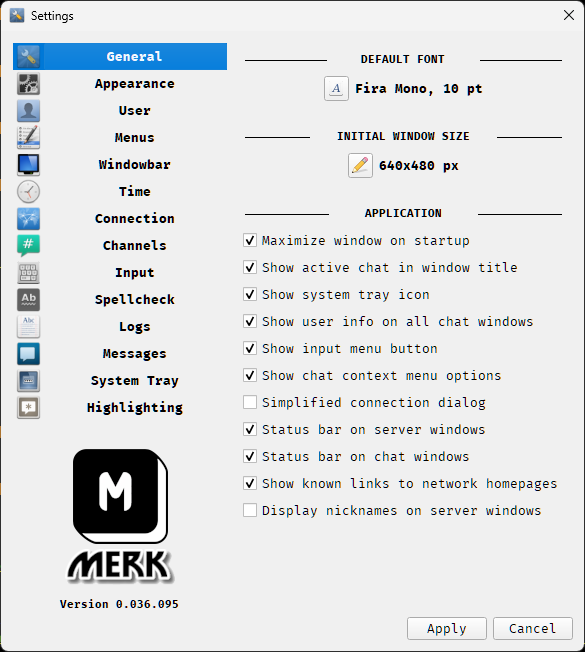
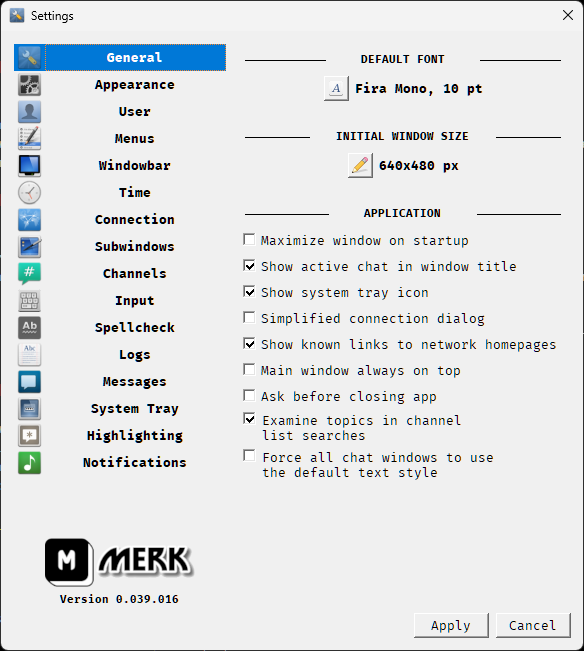
Update to README, and a new screenshot.

diff --git a/README.md b/README.md
@@ -41,18 +41,18 @@ Join me on the official **MERK** IRC channel, **#merk** on the Libera Chat netwo
 
 # Running MERK on Windows
 
-If you're running Windows, you can run **MERK** without having to install Python or its requirements! First, [download the Windows installer of **MERK** 0.039.016](https://github.com/nutjob-laboratories/merk/raw/main/downloads/merk-setup.zip). Extract the downloaded zip file and double click on `merk-setup.exe` to install **MERK** to wherever you'd like.
+If you're running Windows, you can run **MERK** without having to install Python or its requirements! First, [download the Windows installer of **MERK** 0.039.016](https://github.com/nutjob-laboratories/merk//raw/main/downloads/merk-setup.zip). Extract the downloaded zip file and double click on `merk-setup.exe` to install **MERK** to wherever you'd like.
 
-For a "portable" version of **MERK**, [download the zip file of **MERK** 0.039.016 for Windows](https://github.com/nutjob-laboratories/merk/raw/main/downloads/merk-windows-latest.zip). Extract the zip archive where ever you want, and double click on `merk.exe` to run **MERK**!
+For a "portable" version of **MERK**, [download the zip file of **MERK** 0.039.016 for Windows](https://github.com/nutjob-laboratories/merk//raw/main/downloads/merk-windows-latest.zip). Extract the zip archive where ever you want, and double click on `merk.exe` to run **MERK**!
 
-For an even easier "install", [download the "standalone" executable of **MERK** 0.039.016](https://github.com/nutjob-laboratories/merk/raw/main/downloads/merk-windows-standalone.zip) to wherever you want, extract the zipped executable, and double click it to run **MERK**!
+For an even easier "install", [download the "standalone" executable of **MERK** 0.039.016](https://github.com/nutjob-laboratories/merk//raw/main/downloads/merk-windows-standalone.zip) to wherever you want, extract the zipped executable, and double click it to run **MERK**!
 
 The Windows version of **MERK** is being built with [PyInstaller](https://www.pyinstaller.org/).
 
 A note: all commandline arguments, as documented below, work on the standalone version of **MERK**.
 
 # Making MERK Portable on Windows
-If you want to run **MERK** from a USB stick, and save all configuration and user data to the USB stick (or wherever you're running **MERK** from), it's really easy. First, [download the zip file of **MERK** 0.039.016 for Windows](https://github.com/nutjob-laboratories/merk/raw/main/downloads/merk-windows-latest.zip), and extract it to your USB stick. Then, open [Notepad](https://en.wikipedia.org/wiki/Windows_Notepad), and enter this into a new document:
+If you want to run **MERK** from a USB stick, and save all configuration and user data to the USB stick (or wherever you're running **MERK** from), it's really easy. First, [download the zip file of **MERK** 0.039.016 for Windows](https://github.com/nutjob-laboratories/merk//raw/main/downloads/merk-windows-latest.zip), and extract it to your USB stick. Then, open [Notepad](https://en.wikipedia.org/wiki/Windows_Notepad), and enter this into a new document:
 
 ```merk.exe --config-local```
 
@@ -62,7 +62,7 @@ Whenever you want to run **MERK** off of your USB stick, double click the `.bat`
 
 # Running MERK with Python
 
-First, make sure that all the [requirements](#python-requirements) are installed. Next, [download **MERK**](https://github.com/nutjob-laboratories/merk/raw/main/downloads/merk-latest.zip). Extract the zipfile to a directory of your choice using your favorite archive/zip program. Open a command prompt, navigate to the directory you extracted **MERK** to, and type:
+First, make sure that all the [requirements](#python-requirements) are installed. Next, [download **MERK**](https://github.com/nutjob-laboratories/merk//raw/main/downloads/merk-latest.zip). Extract the zipfile to a directory of your choice using your favorite archive/zip program. Open a command prompt, navigate to the directory you extracted **MERK** to, and type:
 
     python merk.py
 
@@ -98,7 +98,7 @@ There are three libraries that comes bundled with **MERK**:
 -   Uses a [multiple document interface](https://en.wikipedia.org/wiki/Multiple-document_interface), much like popular Windows IRC client [mIRC](https://www.mirc.com/)
     - Multiple channel and server windows can be open for viewing and chatting at once
     - All chat windows are contained in a single "parent" window
--   If you're using Windows, [you can run **MERK** without installing Python](https://github.com/nutjob-laboratories/merk/raw/main/downloads/merk-windows-latest.zip)!
+-   If you're using Windows, [you can run **MERK** without installing Python](https://github.com/nutjob-laboratories/merk//raw/main/downloads/merk-windows-latest.zip)!
 - Dark mode!
   - Dark mode can be enabled from the commandline, or from the settings dialog
   - If dark mode is enabled from the settings dialog, an application restart is required
@@ -161,7 +161,12 @@ There are three libraries that comes bundled with **MERK**:
 
   <p align="center">
  <center><a href="https://github.com/nutjob-laboratories/merk//raw/main/graphics/settings.png"><img src="https://github.com/nutjob-laboratories/merk//raw/main/graphics/settings_small.png"></a></center></br>
-  <center><i><small>The first "page" of the settings dialog. MERK features over 80 settings that can be tweaked until MERK looks and works exactly like you want it to. All settings (except for "dark mode") are applied instantly.</small></i></center>
+  <center><i><small>The first "page" of the settings dialog. MERK features over 100 settings that can be tweaked until MERK looks and works exactly like you want it to. All settings (except for "dark mode") are applied instantly.</small></i></center>
+  </p>
+
+  <p align="center">
+ <center><a href="https://github.com/nutjob-laboratories/merk//raw/main/graphics/channels.png"><img src="https://github.com/nutjob-laboratories/merk//raw/main/graphics/channels_small.png"></a></center></br>
+  <center><i><small>The channel list dialog, listing all visible channels on a server. The list can be searched and filtered by user count. This screenshot shows the channel list for the <a href="https://libera.chat/">Libera</a> network.</small></i></center>
   </p>
   
 # Usage
@@ -274,7 +279,7 @@ All of these commands can be issued from the text input widget, or from scripts.
 
 
 # Example Commandline Usage
-In the following examples, the first commandline is how you would do the task using **MERK** as a [Python script](https://github.com/nutjob-laboratories/merk/raw/main/downloads/merk-latest.zip), and second commandline is how you would do it using the [**MERK** Windows executable](https://github.com/nutjob-laboratories/merk/raw/main/downloads/merk-windows-latest.zip). Note that the commandlines, other than the initial executable, are the same!
+In the following examples, the first commandline is how you would do the task using **MERK** as a [Python script](https://github.com/nutjob-laboratories/merk//raw/main/downloads/merk-latest.zip), and second commandline is how you would do it using the [**MERK** Windows executable](https://github.com/nutjob-laboratories/merk//raw/main/downloads/merk-windows-latest.zip). Note that the commandlines, other than the initial executable, are the same!
 
 Let's assume that you want to use the commandline to connect **MERK** to the `2600.net` network and join the `#linux` channel:
 ```
